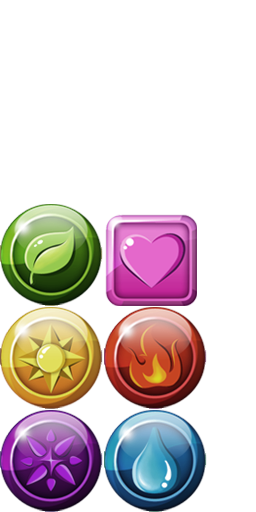
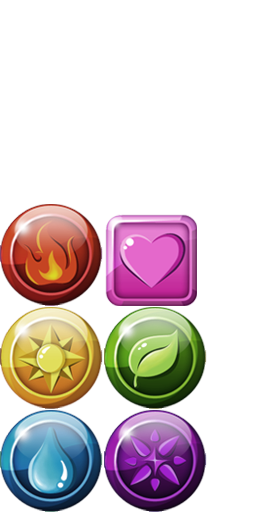
代码更新

Changed region(s): [[0.0, 0.5938, 0.8125, 1.0], [0.0, 0.375, 0.4062, 0.625]]

diff --git a/Tile Editor/Assets/Scripts/Game/GameLogic/CreateMap.cs b/Tile Editor/Assets/Scripts/Game/GameLogic/CreateMap.cs
@@ -5,119 +5,123 @@ using System.Text;
 	
 public class CreateMap : MonoBehaviour {
 	
-	public int row;
-	public int column;
+		public UILabel totalPointLab;
+		GameData gameData;
 	
-	public UILabel totalPointLab;
-	int totalPoint;
+		int row;
+		int column;
+		int offX;
+		int[,] mapInfo;
+		int totalPoint;
+		int curType;
+		int f ;
+		int moveTileNum;
 	
-	int tileWidth = 50;
-	int tileHeight =50;
-	int offX;
+		float mapWidthMax;
+		float mapHeightMax;
 	
-	Dictionary<string,TileObj> objDic;
-	int[,] mapInfo;
-	Vector2 constVar = new Vector2(-1,-1);
-	int curType;
-	float mapWidthMax;
-	float mapHeightMax;
-	
-	Queue<Vector2> tempQueue;
-	Queue<Vector2> saveQueue;
-	
-	List<List<Vector2>> indexList;
-	List<Tile> tile;
-	
-	List<Tile> horizontalTile;
-	bool intervalFlag;
-	bool dropFlag;
-	
-	bool gameOverCheckFlag;
-	
-	int f ;
-	int moveTileNum;
-	// Use this for initialization
-	void Start () {
+		bool intervalFlag;
+		bool dropFlag;
+		bool gameOverCheckFlag;
 		
-		intervalFlag=false;
-		dropFlag = false;
-		gameOverCheckFlag =false;
-		offX = Mathf.CeilToInt(Screen.width%tileWidth/2);
-		 column = Screen.width/tileWidth;
-		 row= Screen.height/tileHeight/2;
-		print(" "+ Screen.width+ "row:"+row+"column:"+column);
-		curType = -1;
-		mapInfo = new int[row,column];
-		objDic = new Dictionary<string, TileObj>();
-		tempQueue = new Queue<Vector2>();
-		saveQueue = new Queue<Vector2>();
-		indexList = new List<List<Vector2>>();
-		tile = new List<Tile>();
-		horizontalTile = new List<Tile>();
-		 StartCoroutine(InitMap());
-		print("  "+Screen.width);
-		print(Mathf.CeilToInt(10.4f));
-		mapWidthMax = column*tileWidth;
-		mapHeightMax = row*tileHeight;
-	}
+		List<List<Vector2>> indexList;
+		List<Tile> tile;
+		List<Tile> horizontalTile;
 	
-	// Update is called once per frame
-	void Update () {
-		if(intervalFlag) return;
-		if(Input.GetMouseButtonUp(0) )
+		Queue<Vector2> tempQueue;
+		Queue<Vector2> saveQueue;
+	
+		Dictionary<string,TileObj> objDic;
+
+		Vector2 constVar = new Vector2(-1,-1);
+
+	
+		// Use this for initialization
+		void Start ()
 		{
-			if(offX<=Input.mousePosition.x&&Input.mousePosition.x<mapWidthMax&&Input.mousePosition.y>=0&&Input.mousePosition.y<mapHeightMax)
-			{
-				tempQueue.Clear();
-				saveQueue.Clear();
-				indexList.Clear();
-				tile.Clear();
-				horizontalTile.Clear();
-				 Vector2 v2= CalculateCurIndex(Input.mousePosition);
-				if(mapInfo[(int)v2.y,(int)v2.x]>0)
-				{
-					intervalFlag = true;
-					CalculateRemoveTile(v2);
-				}
-				else
-				{
-					print("null");
-				}
-			}
-			else
-			{
-				print("AAAAAAAAAA");
-			}
+			gameData = Game.dataManager.gameData;
+		
+			column = gameData.Column;
+			row = gameData.Row;
+			offX = gameData.OffSetX;
+			mapWidthMax = gameData.MapWidthMax;
+			mapHeightMax = gameData.MapHeightMax;
+			mapInfo = gameData.mapInfo;
+			curType = -1;
+			objDic = gameData.objDic;
+		
+			intervalFlag = false;
+			dropFlag = false;
+			gameOverCheckFlag = false;
+		
+			indexList = new List<List<Vector2>>();
+			horizontalTile = new List<Tile>();
+			tile = new List<Tile>();
+		
+			tempQueue = new Queue<Vector2>();
+			saveQueue = new Queue<Vector2>();
+		
+		
+			StartCoroutine(InitMap());
+			
 		}
-	}
-	IEnumerator  InitMap()
-	{
-		for(int i=0;i<row;i++)
+	
+		// Update is called once per frame
+		void Update ()
 		{
-			for(int j=0;j<column;j++)
-			{
-				TileObj tileObj = new TileObj();
-				GameObject go = (GameObject)Instantiate(Resources.Load("Prefab/Button"));
-				int ran = Random.Range(1,7);
-				go.GetComponentInChildren<UISprite>().spriteName = go.GetComponentInChildren<UISprite>().atlas.spriteList[ran-1].name;
-				go.transform.parent = transform;
-				tileObj.x = (j+1/2f)*tileWidth-Screen.width/2+offX;
-				tileObj.y = (i+1/2f)*tileHeight-Screen.height/2;
-				go.transform.localPosition = new Vector3(tileObj.x,Screen.height+tileHeight,0);
-				iTween.MoveTo(go,iTween.Hash("y",tileObj.y,"islocal",true,"time",0.5f+j*0.1f));
-				go.transform.localScale = Vector3.one;
-				tileObj.obj = go;
-				objDic.Add(i+","+j,tileObj);	
-				mapInfo[i,j]=ran;
-			}
-			yield return new  WaitForSeconds(0.2f);
+				if(intervalFlag) return;
+				if(Input.GetMouseButtonUp(0) )
+				{
+						if(offX<=Input.mousePosition.x&&Input.mousePosition.x<mapWidthMax&&Input.mousePosition.y>=0&&Input.mousePosition.y<mapHeightMax)
+						{
+								tempQueue.Clear();
+								saveQueue.Clear();
+								indexList.Clear();
+								tile.Clear();
+								horizontalTile.Clear();
+								
+								Vector2 v2= CalculateCurIndex(Input.mousePosition);
+								if(mapInfo[(int)v2.y,(int)v2.x]>0)
+								{
+										intervalFlag = true;
+										CalculateRemoveTile(v2);
+								}
+								else{
+										print("null");
+								}
+						}
+						else{
+								print("AAAAAAAAAA");
+						}
+				}
 		}
-	}
+	
+		IEnumerator  InitMap()
+		{
+				for(int i=0;i<row;i++)
+				{
+						for(int j=0;j<column;j++)
+						{
+							
+				                TileObj tileObj = objDic[i+","+j];
+								GameObject go = (GameObject)Instantiate(Resources.Load("Prefabs/Obj/Tile"));
+
+								go.GetComponentInChildren<UISprite>().spriteName = go.GetComponentInChildren<UISprite>().atlas.spriteList[ mapInfo[i,j] - 1 ].name;
+								go.transform.parent = transform;
+				            
+								go.transform.localPosition = new Vector3(tileObj.x,tileObj.y,0);
+							//	iTween.MoveTo(go,iTween.Hash("y",tileObj.y,"islocal",true,"time",0.5f+j*0.1f));
+								go.transform.localScale =new Vector3(Game.dataManager.gameData.SpriteWidth,Game.dataManager.gameData.SpriteWidth,1);
+								tileObj.obj = go;
+						}
+						yield return new  WaitForSeconds(0.2f);
+				}
+		}
      Vector2 	CalculateCurIndex(Vector2 pos)
 	{
 		Vector2 vec2;
-		vec2.x = Mathf.FloorToInt((pos.x-1-offX)/tileWidth);
-		vec2.y = Mathf.FloorToInt((pos.y-1)/tileHeight);
+		vec2.x = Mathf.FloorToInt((pos.x-1-offX)/gameData.SpriteWidth);
+		vec2.y = Mathf.FloorToInt((pos.y-1)/gameData.SpriteHeight);
 		return vec2;
 	} 
 	
@@ -224,13 +228,13 @@ public class CreateMap : MonoBehaviour {
 			Vector2 v = vIndex[i];
 			mapInfo[(int)v.y,(int)v.x] = 0;
 			Destroy(objDic[v.y+","+v.x].obj);
-			UILabel  lable =  ((GameObject)Instantiate( Resources.Load("Prefab/Score"))).GetComponent<UILabel>();
-			lable.transform.parent = transform;
-			lable.transform.localPosition = new Vector3(objDic[v.y+","+v.x].x,objDic[v.y+","+v.x].y,0);
-			lable.transform.localScale = new Vector3(20,20,1);
-			int curPoint = 10+i*5;
-			lable.text =""+curPoint;
-			iTween.MoveTo(lable.gameObject,iTween.Hash("position",new Vector3(totalPointLab.transform.localPosition.x,totalPointLab.transform.localPosition.y,totalPointLab.transform.localPosition.z),"time",0.5f+i*0.3f,"islocal",true,"oncomplete","OnCompleteMoveOver","oncompletetarget",lable.gameObject,"oncompleteparams",curPoint));
+//			UILabel  lable =  ((GameObject)Instantiate( Resources.Load("Prefab/Score"))).GetComponent<UILabel>();
+//			lable.transform.parent = transform;
+//			lable.transform.localPosition = new Vector3(objDic[v.y+","+v.x].x,objDic[v.y+","+v.x].y,0);
+//			lable.transform.localScale = new Vector3(20,20,1);
+//			int curPoint = 10+i*5;
+//			lable.text =""+curPoint;
+//			iTween.MoveTo(lable.gameObject,iTween.Hash("position",new Vector3(totalPointLab.transform.localPosition.x,totalPointLab.transform.localPosition.y,totalPointLab.transform.localPosition.z),"time",0.5f+i*0.3f,"islocal",true,"oncomplete","OnCompleteMoveOver","oncompletetarget",lable.gameObject,"oncompleteparams",curPoint));
 		   if(!gameOverCheckFlag)
 			{
 				gameOverCheckFlag = true;

diff --git a/Tile Editor/Assets/Scripts/Game.cs b/Tile Editor/Assets/Scripts/Game.cs
@@ -7,13 +7,22 @@ public class Game : MonoBehaviour {
 	public static  AndroidPlugin androidPlugin;
 	public static  DataManager dataManager;
 	public Transform uiParent;
+	
+	void Awake()
+	{
+		InitManager();
+	}
 	// Use this for initialization
 	void Start () {
-		dataManager = CreateObj<DataManager>("DataManager");
-		uimanager = CreateObj<UIManager>("UIManager");
-		androidPlugin = CreateObj<AndroidPlugin>("AndroidPlugin");
-		
-	    uimanager.SetUIParent = uiParent;
+	
+	}
+	void InitManager()
+	{
+			dataManager = CreateObj<DataManager>("DataManager");
+			uimanager = CreateObj<UIManager>("UIManager");
+			//androidPlugin = CreateObj<AndroidPlugin>("AndroidPlugin");
+			
+			uimanager.SetUIParent = uiParent;
 	}
 	
 	// Update is called once per frame
@@ -23,7 +32,7 @@ public class Game : MonoBehaviour {
 	
 	public T CreateObj<T> (string prefabName)where T:Component 
 	{
-		 string path="Prefabs/LoadPrefabs/Obj/"+prefabName;
+		 string path="Prefabs/Obj/"+prefabName;
 		 GameObject go= (GameObject)Instantiate( Resources.Load(path));
 		 go.transform.parent = gameObject.transform;
 		 go.name = prefabName;

diff --git a/Tile Editor/Assets/Scripts/Game/DataManager/DataManager.cs b/Tile Editor/Assets/Scripts/Game/DataManager/DataManager.cs
@@ -7,22 +7,33 @@ public class DataManager : MonoBehaviour {
 
 	public Friends friends;
 	public Dictionary<UIPANEL,string> uiDic;
+	public GameData gameData;
 	// Use this for initialization
+	
+	void Awake()
+	{
+		InitData();
+	}
+	
 	void Start () {
+
+	}
+	
+	void InitData()
+	{
+		
+		gameData = new GameData(Screen.width,Screen.height);
+		
 		uiDic = new Dictionary<UIPANEL, string>();
 		TextAsset uiText = Resources.Load("Txt/UIPrefabPath") as TextAsset;
 		string[] uiPath = uiText.text.Split('\n');
-		
-		 Type week=typeof(UIPANEL);
-            Array Arrays = Enum.GetValues(week);
-            for(int i=0;i<Arrays.LongLength;i++)
-			{
-				uiDic.Add((UIPANEL)Arrays.GetValue(i),uiPath[i]);
-			}
-               
-          print(uiDic[UIPANEL.UIPANEL_FriendsList]);
-        
-	
+		Type week=typeof(UIPANEL);
+		Array Arrays = Enum.GetValues(week);
+		for(int i=0;i<Arrays.LongLength;i++)
+		{
+			uiDic.Add((UIPANEL)Arrays.GetValue(i),uiPath[i]);
+		}
+		print(uiDic[UIPANEL.UIPANEL_FriendsList]);
 	}
 	
 	// Update is called once per frame

diff --git a/Tile Editor/Assets/Scripts/Game/DataManager/GameData.cs b/Tile Editor/Assets/Scripts/Game/DataManager/GameData.cs
@@ -28,7 +28,10 @@ public class GameData  {
 		column = width/spriteWidth;
 		offSetX = Mathf.CeilToInt(width%spriteWidth/2);
 		mapWidthMax = column*spriteWidth - offSetX;
+		mapHeightMax = row*spriteHeight;
 		objDic = new Dictionary<string,TileObj>(); 
+		mapInfo = new int[row,column];
+		InitGameData();
 	}
 	
 	public int Row
@@ -53,7 +56,17 @@ public class GameData  {
 	
 	public int MapHeightMax
 	{
-		get{return MapHeightMax;}
+		get{return mapHeightMax;}
+	}
+	
+	public int SpriteWidth
+	{
+		get{return spriteWidth;}
+	}
+	
+	public int SpriteHeight
+	{
+		get{return spriteHeight;}
 	}
 	
 	public void InitGameData()
@@ -66,7 +79,7 @@ public class GameData  {
 				mapInfo[i,j] = random;
 				TileObj tileObj = new TileObj();
 				tileObj.x = (j+1/2f)*spriteWidth-width/2+offSetX; //(j+1/2f)*tileWidth-Screen.width/2  
-				tileObj.y = (i+1/2f)*spriteHeight-height/3*2;
+				tileObj.y = (i+1/2f)*spriteHeight-height/2f;
 				objDic.Add(i+","+j,tileObj);
 			}
 		}
